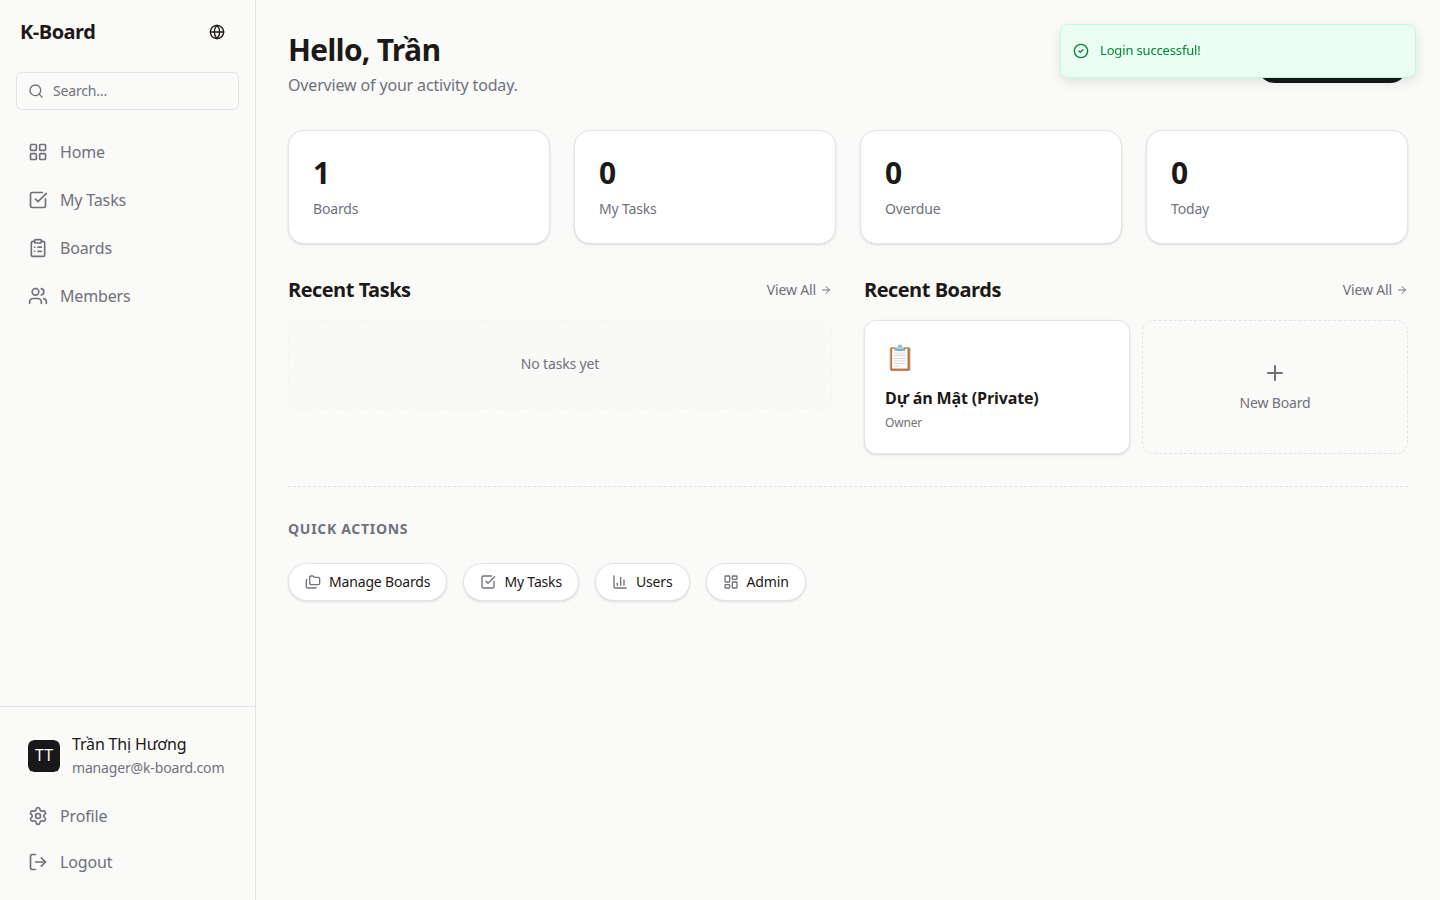
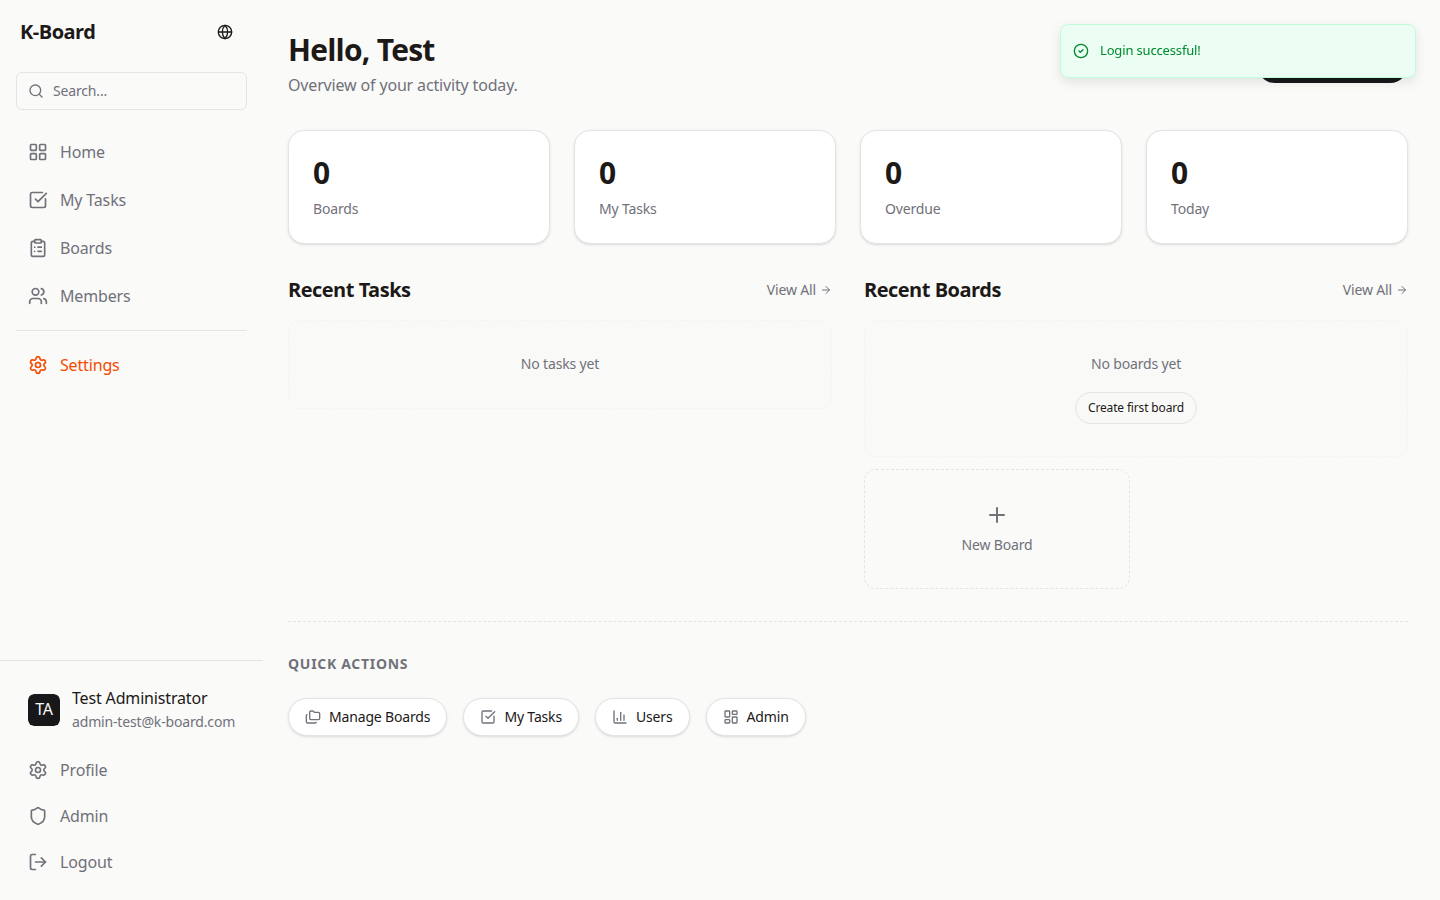
docs: add comprehensive screenshot gallery to readme

diff --git a/tests/e2e/screenshots.spec.ts b/tests/e2e/screenshots.spec.ts
@@ -1,70 +1,85 @@
 import { test, expect } from "@playwright/test";
 
-// robust-selector-playground/tests/e2e/screenshots.spec.ts but for K-ERP
-// Targeting localhost:3000 (Docker or Dev)
-
-test.describe("Marketing Screenshots", () => {
+test.describe("Marketing Screenshots Gallery", () => {
   test.use({
-    viewport: { width: 1440, height: 900 }, // Standard Desktop
-    locale: "en", // English for international README (or user preference?) Let's use 'vi' as it is primary? User's README is in English features but "K-Board" implies...
-    // Let's stick to 'vi' if that's the default or 'en' if README is English.
-    // README is mixed. Let's use 'vi' (Vietnamese) as it looks like the primary target audience based on seed data ("Hồ sơ đo đạc").
-    // Actually, README has English descriptions.
-    // Let's take screenshots in Vietnamese since the UI is localized that way in seed?
-    // Wait, the seed data is Vietnamese ("Hồ sơ đo đạc"). So Vietnamese UI matches better.
+    viewport: { width: 1440, height: 900 },
   });
 
-  test("Capture Landing Page", async ({ page }) => {
+  test("Capture All Pages", async ({ page }) => {
+    // 1. Landing Page
     await page.goto("/");
-    // Wait for hero to load
     await expect(page.locator("h1")).toBeVisible();
-    await page.waitForTimeout(1000); // Wait for animations
+    await page.waitForTimeout(1000);
     await page.screenshot({ path: "public/screenshots/landing.png", fullPage: true });
-  });
+    console.log("📸 Captured Landing");
 
-  test("Capture Dashboard and Kanban", async ({ page }) => {
-    // 1. Login
+    // 2. Authentication Pages
     await page.goto("/auth/login");
+    await expect(page.getByRole("button", { name: "Login" })).toBeVisible();
+    await page.screenshot({ path: "public/screenshots/login.png" });
+    console.log("📸 Captured Login");
 
-    // Use manager credentials from seed (reliable)
-    // "admin@k-board.com" might not exist if another admin (e.g. user's own account) exists in DB.
-    await page.getByLabel("Email").fill("manager@k-board.com");
-    await page.getByLabel("Password").fill("123456");
+    await page.goto("/auth/register");
+    await expect(page.getByRole("button", { name: /Register|Đăng/i })).toBeVisible();
+    await page.screenshot({ path: "public/screenshots/register.png" });
+    console.log("📸 Captured Register");
+
+    // 3. Login as Admin
+    await page.goto("/auth/login");
+    await page.getByLabel("Email").fill("admin-test@k-board.com");
+    await page.getByLabel("Password").fill("admin123456");
     await page.getByRole("button", { name: "Login" }).click();
 
-    // Wait for Dashboard (increase timeout for Docker slowness)
-    await page.waitForURL("**/dashboard", { timeout: 15000 });
-
-    // Handle potential first-time setup or welcome toasts
-    // "Chào mừng" might be in a toast.
-    // Check for Sidebar instead.
+    // Wait for Dashboard
+    await page.waitForURL("**/dashboard");
     await expect(page.locator("aside")).toBeVisible();
-    await page.waitForTimeout(1000); // Wait for hydration
+    await page.waitForTimeout(1000);
     await page.screenshot({ path: "public/screenshots/dashboard.png" });
+    console.log("📸 Captured Dashboard");
+
+    // 4. User Profile Dialog
+    // UserButton is in the footer (border-t p-4)
+    // Click the Settings icon button in that area
+    await page.locator(".border-t.p-4 button:has(.lucide-settings)").click();
+    await expect(page.getByRole("dialog")).toBeVisible();
+    await page.waitForTimeout(500); // Animation
+    await page.screenshot({ path: "public/screenshots/profile-dialog.png" });
+    console.log("📸 Captured Profile Dialog");
+    await page.keyboard.press("Escape"); // Close dialog
+
+    // 5. Boards List
+    await page.goto("/dashboard/boards");
+    await expect(page.locator("h1")).toContainText("Boards");
+    await page.waitForTimeout(1000);
+    await page.screenshot({ path: "public/screenshots/boards-list.png" });
+    console.log("📸 Captured Boards List");
 
     /*
-    // 2. Go to Board (Seed board: "Hồ sơ đo đạc 2024")
-    // Navigate via URL to be safe
-    // Assuming seed created this board.
+    // 6. Kanban Board
     const boardName = "Hồ sơ đo đạc 2024";
-    await page.goto("/dashboard/boards");
-
-    // Wait for list to load
-    await expect(page.locator(`text=${boardName}`)).toBeVisible({ timeout: 10000 });
-
-    // Click the board
-    await page.click(`text=${boardName}`);
-
-    // Wait for Kanban info
+    await page.click(`text=${boardName}`); // Open board
     await expect(page.locator("h1")).toContainText(boardName);
+    await page.waitForTimeout(1000);
 
-    // Wait for generic board content (Table or Kanban)
-    // Board header actions should be visible
+    // Ensure "New Task" button is visible
     await expect(page.getByRole("button", { name: /New|Mới/i })).toBeVisible();
-    await page.waitForTimeout(2000); // Allow data to load
-
-    // Take screenshot of Kanban
     await page.screenshot({ path: "public/screenshots/kanban.png" });
+    console.log("📸 Captured Kanban");
     */
+
+    // 7. Admin Users
+    await page.goto("/dashboard/admin/users");
+    // Wait for table
+    await expect(page.getByRole("table")).toBeVisible();
+    await page.waitForTimeout(1000);
+    await page.screenshot({ path: "public/screenshots/admin-users.png" });
+    console.log("📸 Captured Admin Users");
+
+    // 8. Admin Settings
+    await page.goto("/dashboard/admin/settings");
+    await expect(page.locator("h1")).toContainText("Settings");
+    await page.waitForTimeout(1000);
+    await page.screenshot({ path: "public/screenshots/admin-settings.png" });
+    console.log("📸 Captured Admin Settings");
   });
 });

diff --git a/README.md b/README.md
@@ -226,6 +226,39 @@ This project is licensed under the MIT License - see the [LICENSE](LICENSE) file
 
 ---
 
+## 📸 Gallery
+
+<details>
+<summary><strong>Viewing All Screenshots</strong></summary>
+
+### Authentication
+
+|                               Login                                |                                 Register                                 |
+| :----------------------------------------------------------------: | :----------------------------------------------------------------------: |
+| <img src="public/screenshots/login.png" width="400" alt="Login" /> | <img src="public/screenshots/register.png" width="400" alt="Register" /> |
+
+### Dashboard & Board
+
+|                                 Dashboard                                  |                                Board List                                 |
+| :------------------------------------------------------------------------: | :-----------------------------------------------------------------------: |
+| <img src="public/screenshots/dashboard.png" width="400" alt="Dashboard" /> | <img src="public/screenshots/boards-list.png" width="400" alt="Boards" /> |
+
+### User Interface
+
+|                                 User Profile                                  |
+| :---------------------------------------------------------------------------: |
+| <img src="public/screenshots/profile-dialog.png" width="400" alt="Profile" /> |
+
+### Administration
+
+|                                User Management                                 |                                   System Settings                                    |
+| :----------------------------------------------------------------------------: | :----------------------------------------------------------------------------------: |
+| <img src="public/screenshots/admin-users.png" width="400" alt="Admin Users" /> | <img src="public/screenshots/admin-settings.png" width="400" alt="Admin Settings" /> |
+
+</details>
+
+---
+
 <p align="center">
   <sub>Built with ❤ by the Open Source Community</sub>
 </p>
